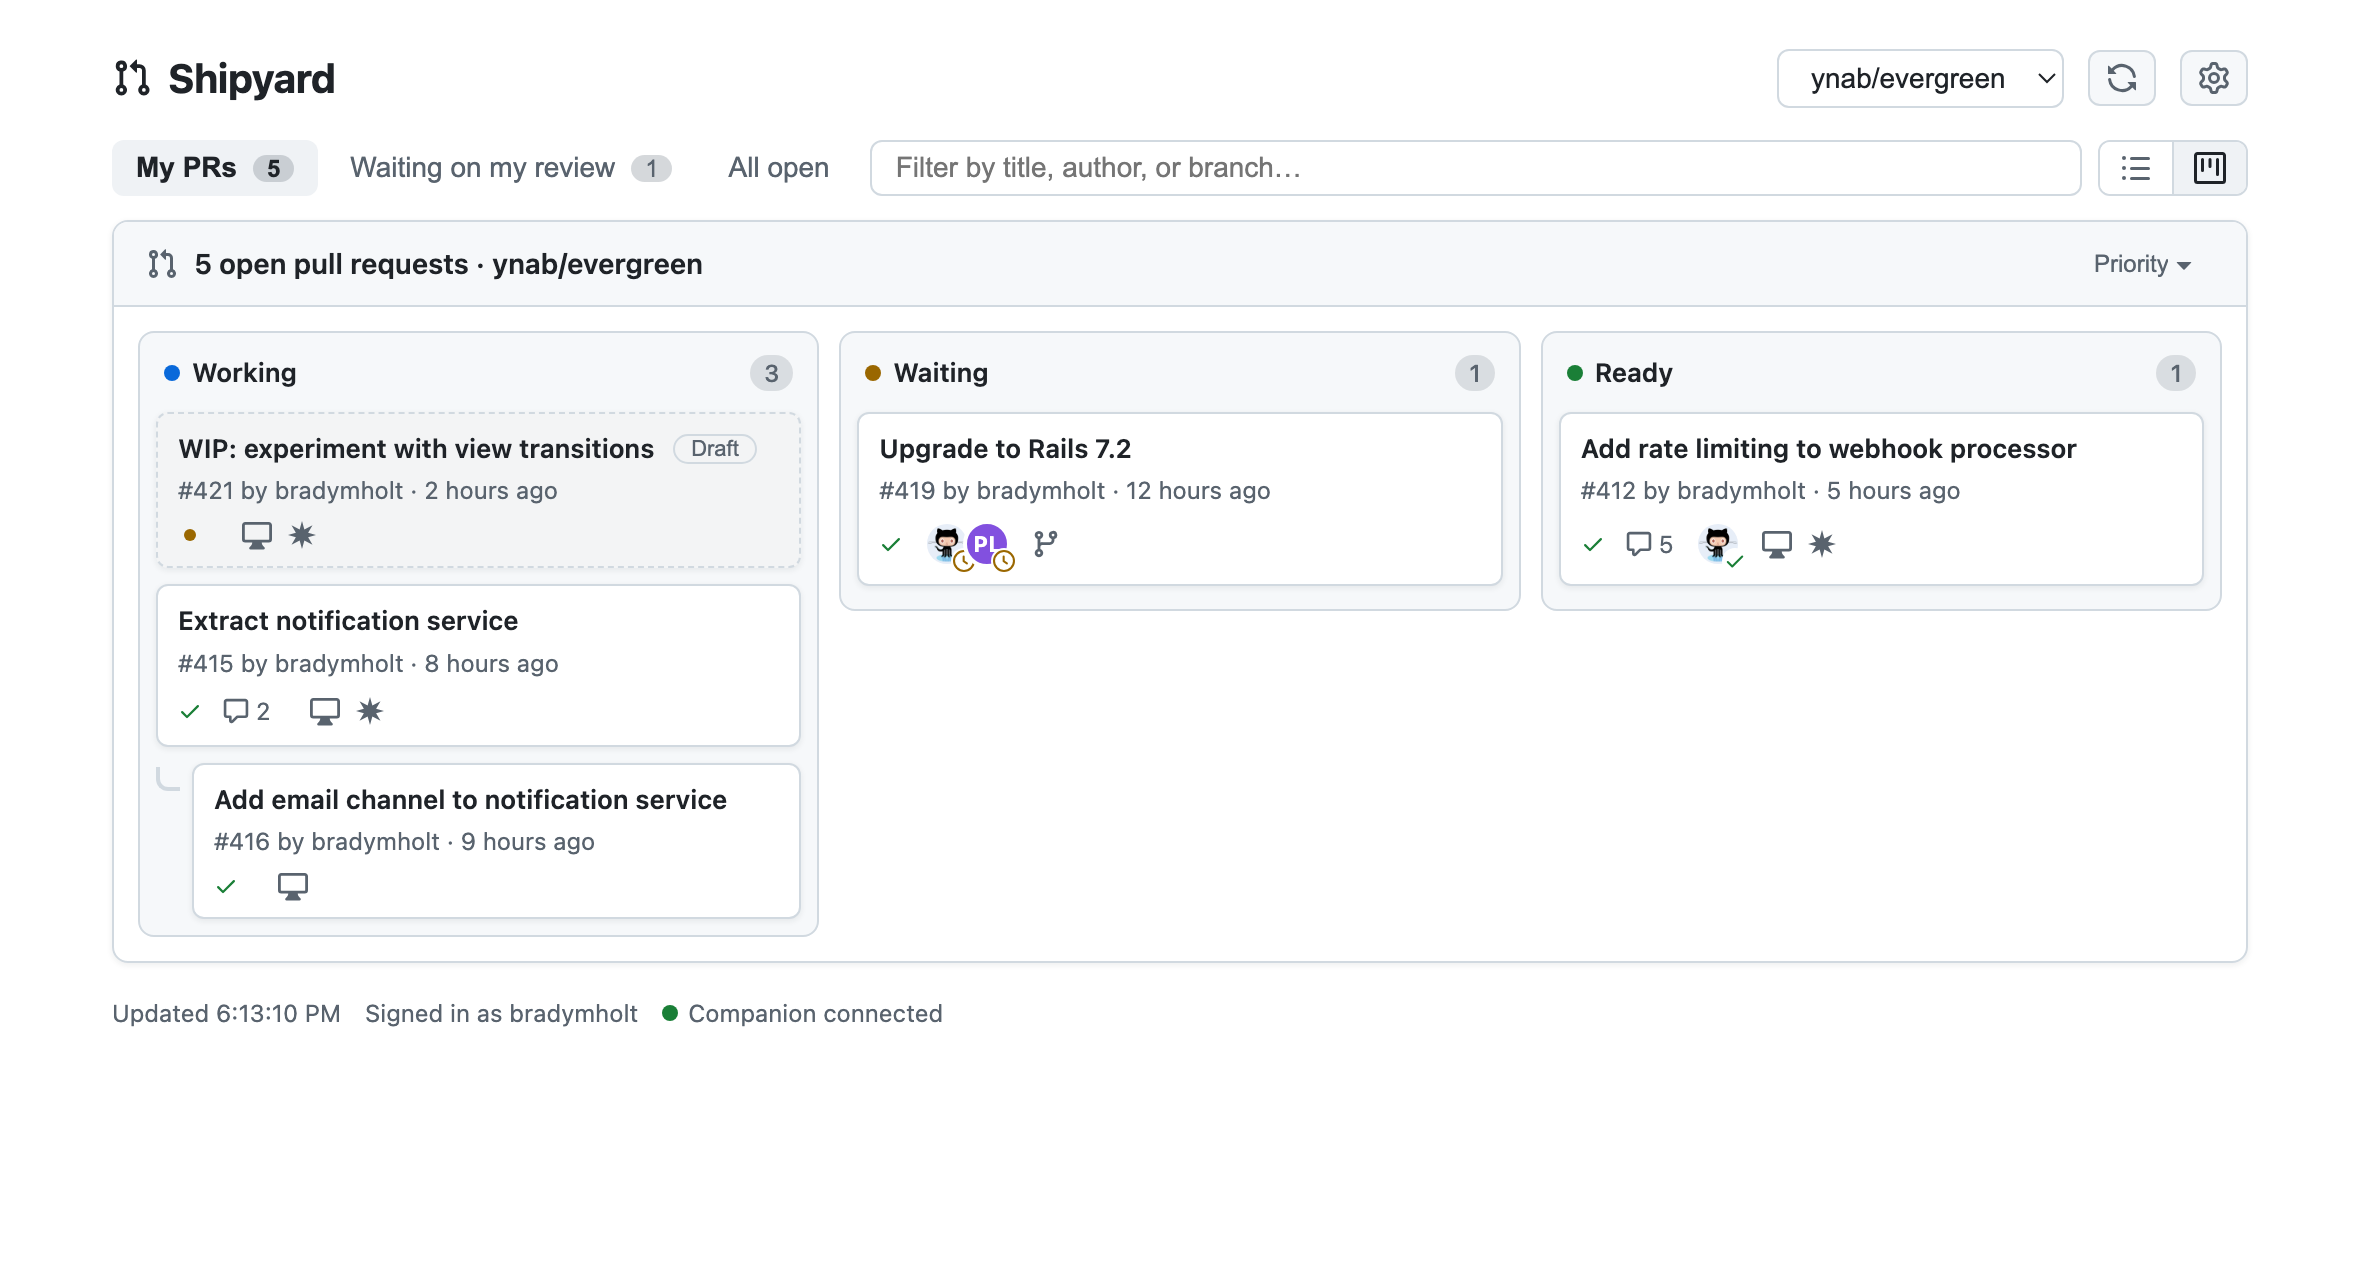
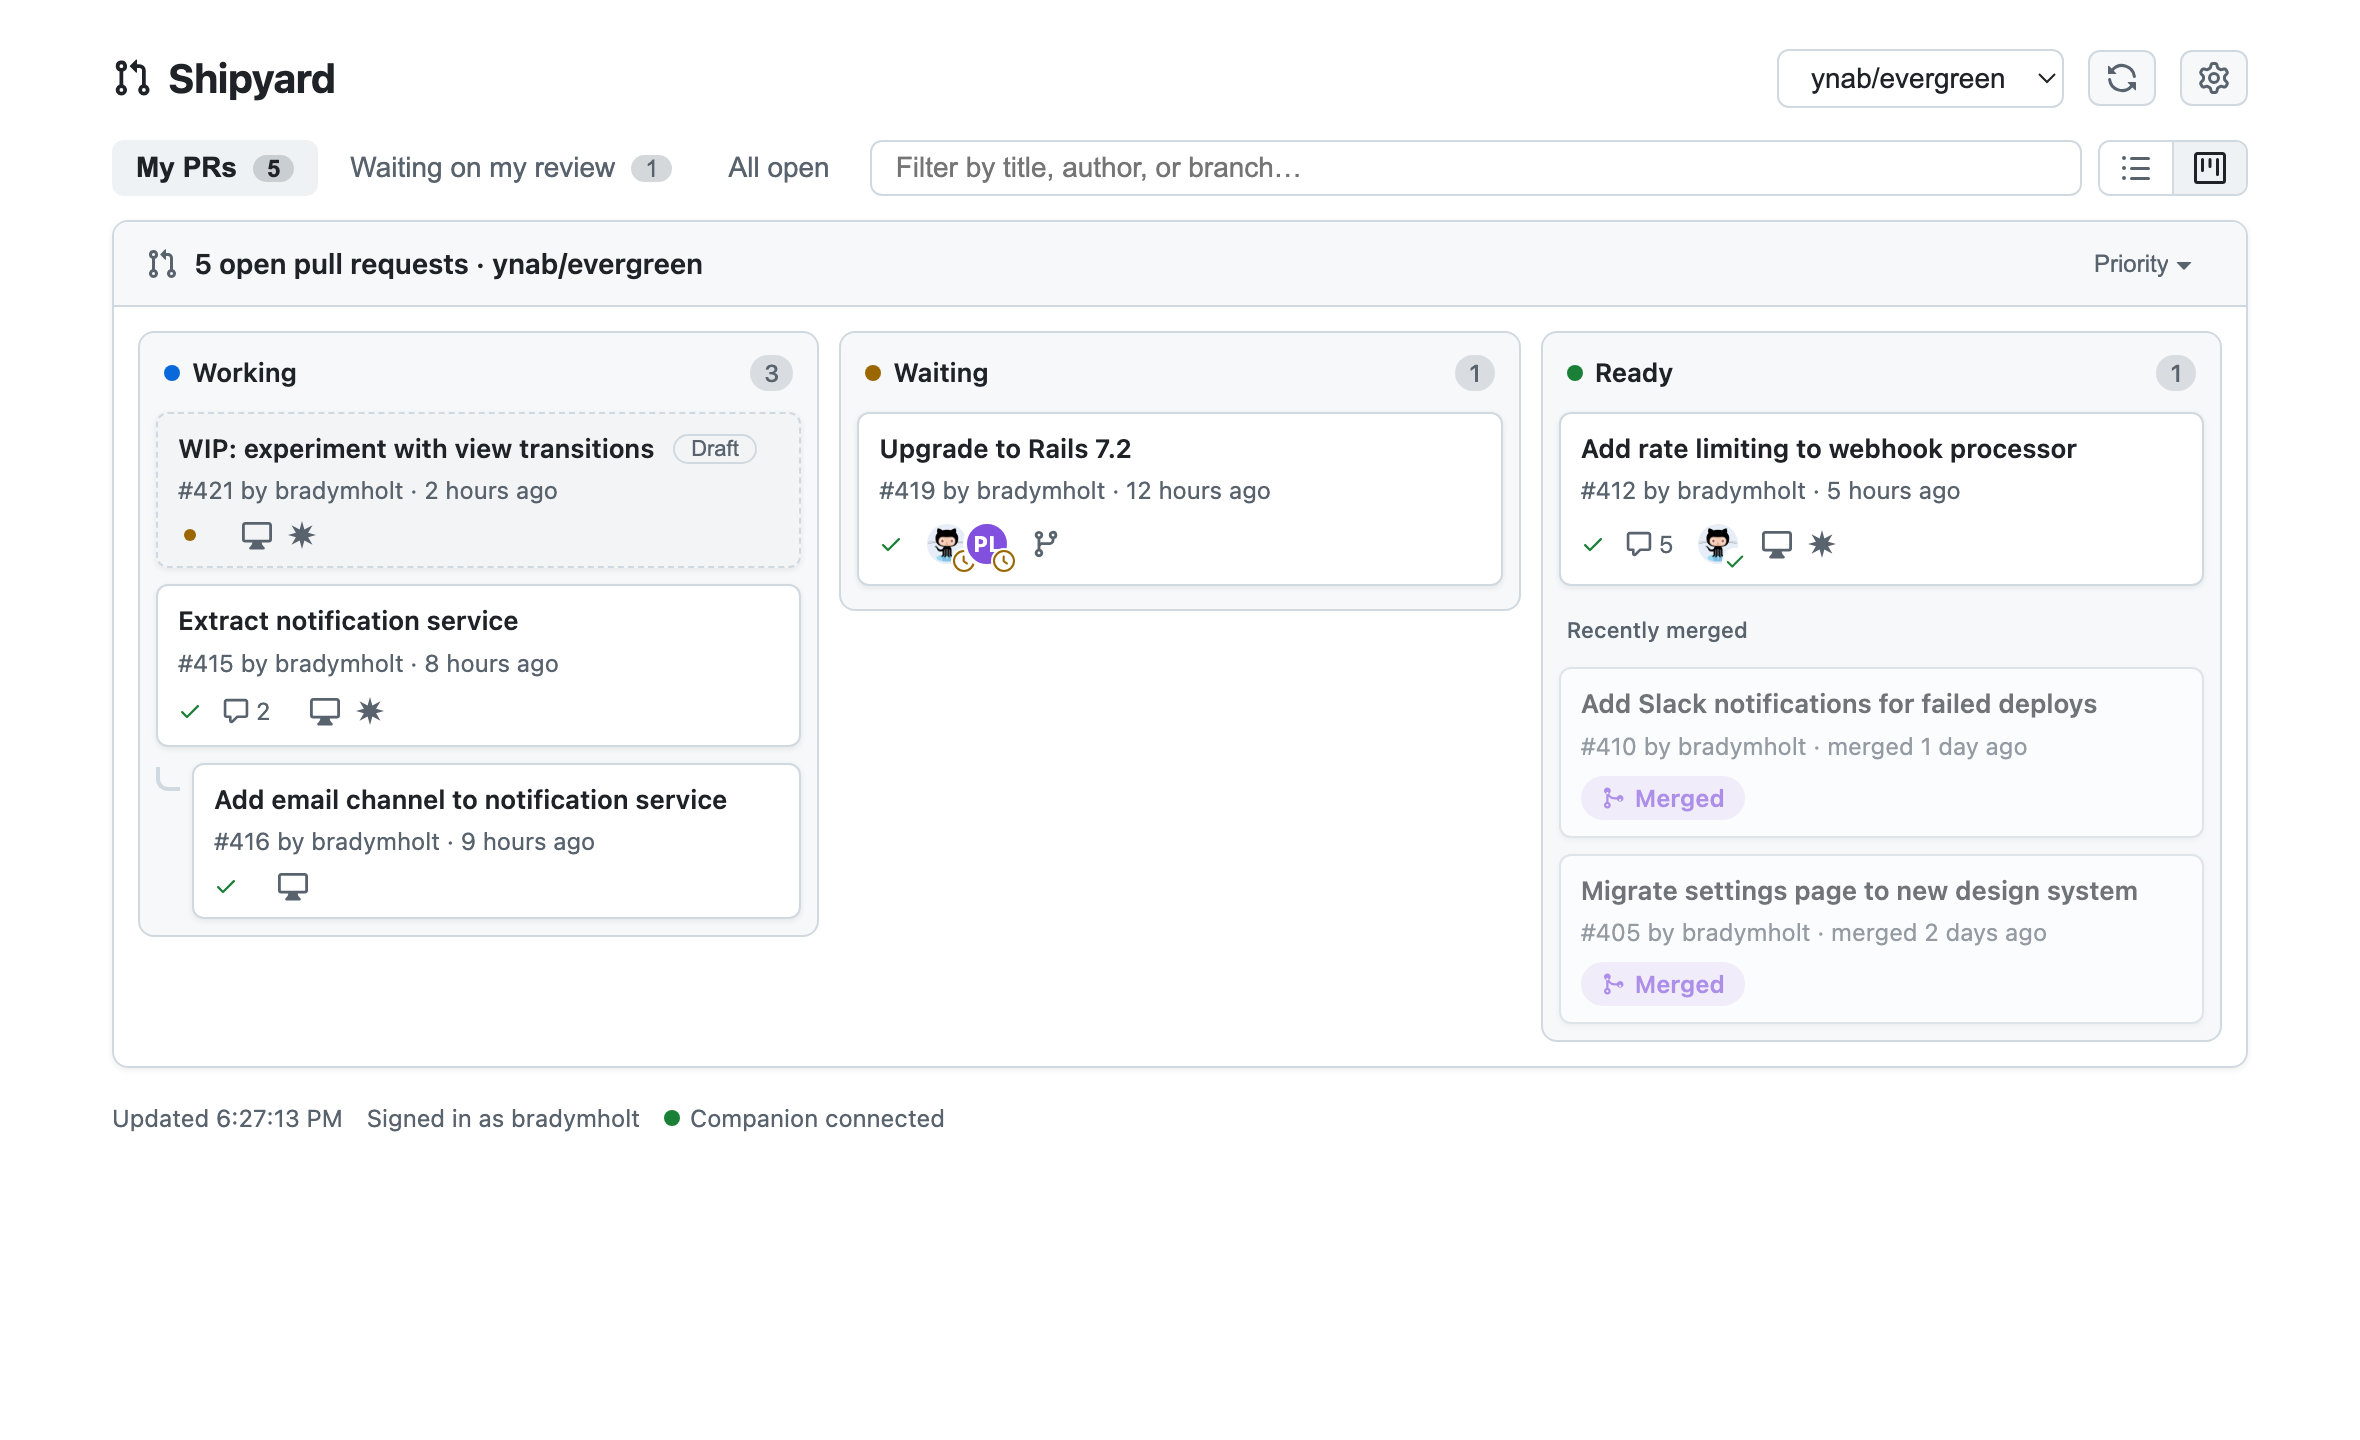
Show last 2 merged PRs (My PRs list bottom + Ready lane)
fetchTargeted now also pulls my 2 most recent merged PRs (is:merged
author:@user). On the My PRs tab they render dimmed with a purple Merged
badge under a 'Recently merged' divider - at the bottom of the list and
beneath the Ready swim lane - so they read as done, not actionable.

diff --git a/index.html b/index.html
@@ -158,6 +158,11 @@
   .pr-row:last-child { border-bottom: none; }
   .pr-row:hover { background: var(--row-hover); }
   .pr-row.context { opacity: .55; }
+  .pr-row.merged, .card.merged { opacity: .62; }
+  .pr-icon.merged svg, .review-badge.merged svg { fill: var(--purple); }
+  .review-badge.merged { color: var(--purple); background: color-mix(in srgb, var(--purple) 14%, transparent); }
+  .merged-divider { font-size: 11px; font-weight: 500; color: var(--fg-muted); padding: 8px 16px 2px; border-top: 1px solid var(--border); }
+  .lane .merged-divider { padding: 6px 4px 2px; border-top: none; }
   .stack-elbow {
     flex: none;
     width: 12px; height: 12px;
@@ -429,6 +434,7 @@
 
   const state = {
     prs: [],              // targeted set: my PRs ∪ PRs awaiting my review (fetched on load)
+    merged: [],           // my last couple of merged PRs, shown as context on the My PRs tab
     targetedLoaded: false,
     allPrs: null,         // full open set, fetched lazily the first time "All open" is viewed
     total: 0,             // total open count, for the All-open truncation note
@@ -447,6 +453,7 @@
 
   function resetData() {
     state.prs = [];
+    state.merged = [];
     state.targetedLoaded = false;
     state.allPrs = null;
   }
@@ -466,6 +473,7 @@
     check: '<svg viewBox="0 0 16 16" width="12" height="12"><path d="M13.78 4.22a.75.75 0 0 1 0 1.06l-7.25 7.25a.75.75 0 0 1-1.06 0L2.22 9.28a.751.751 0 0 1 .018-1.042.751.751 0 0 1 1.042-.018L6 10.94l6.72-6.72a.75.75 0 0 1 1.06 0Z"/></svg>',
     x: '<svg viewBox="0 0 16 16" width="12" height="12"><path d="M3.72 3.72a.75.75 0 0 1 1.06 0L8 6.94l3.22-3.22a.749.749 0 0 1 1.275.326.749.749 0 0 1-.215.734L9.06 8l3.22 3.22a.749.749 0 0 1-.326 1.275.749.749 0 0 1-.734-.215L8 9.06l-3.22 3.22a.751.751 0 0 1-1.042-.018.751.751 0 0 1-.018-1.042L6.94 8 3.72 4.78a.75.75 0 0 1 0-1.06Z"/></svg>',
     dot: '<svg viewBox="0 0 16 16" width="12" height="12"><path d="M8 4a4 4 0 1 1 0 8 4 4 0 0 1 0-8Z"/></svg>',
+    merged: '<svg viewBox="0 0 16 16" width="12" height="12"><path d="M5.45 5.154A4.25 4.25 0 0 0 9.25 7.5h1.378a2.251 2.251 0 1 1 0 1.5H9.25A5.734 5.734 0 0 1 5 7.123v3.505a2.25 2.25 0 1 1-1.5 0V5.372a2.25 2.25 0 1 1 1.95-.218ZM4.25 13.5a.75.75 0 1 0 0-1.5.75.75 0 0 0 0 1.5Zm0-8a.75.75 0 1 0 0-1.5.75.75 0 0 0 0 1.5Zm8.5 4.5a.75.75 0 1 0 0-1.5.75.75 0 0 0 0 1.5Z"/></svg>',
     clock: '<svg viewBox="0 0 16 16" width="12" height="12"><path d="M8 0a8 8 0 1 1 0 16A8 8 0 0 1 8 0ZM1.5 8a6.5 6.5 0 1 0 13 0 6.5 6.5 0 0 0-13 0Zm7-3.25v2.992l2.028 1.352a.75.75 0 0 1-.832 1.248l-2.36-1.573A.75.75 0 0 1 7 8.25v-3.5a.75.75 0 0 1 1.5 0Z"/></svg>',
     comment: '<svg viewBox="0 0 16 16" width="14" height="14"><path d="M1 2.75C1 1.784 1.784 1 2.75 1h10.5c.966 0 1.75.784 1.75 1.75v7.5A1.75 1.75 0 0 1 13.25 12H9.06l-2.573 2.573A1.458 1.458 0 0 1 4 13.543V12H2.75A1.75 1.75 0 0 1 1 10.25Zm1.75-.25a.25.25 0 0 0-.25.25v7.5c0 .138.112.25.25.25h2a.75.75 0 0 1 .75.75v2.19l2.72-2.72a.749.749 0 0 1 .53-.22h4.5a.25.25 0 0 0 .25-.25v-7.5a.25.25 0 0 0-.25-.25Z"/></svg>',
     changes: '<svg viewBox="0 0 16 16" width="12" height="12"><path d="M4.72 3.22a.75.75 0 0 1 1.06 1.06L2.06 8l3.72 3.72a.75.75 0 1 1-1.06 1.06L.47 8.53a.75.75 0 0 1 0-1.06Zm6.56 0a.75.75 0 1 0-1.06 1.06L13.94 8l-3.72 3.72a.75.75 0 1 0 1.06 1.06l4.25-4.25a.75.75 0 0 0 0-1.06Z"/></svg>',
@@ -497,7 +505,7 @@
 
   // ---------- GitHub API ----------
   const PR_FIELDS = `
-    id number title url isDraft createdAt updatedAt headRefName baseRefName
+    id number title url isDraft createdAt updatedAt mergedAt headRefName baseRefName
     autoMergeRequest { enabledAt }
     viewerCanEnableAutoMerge viewerCanDisableAutoMerge
     repository { nameWithOwner }
@@ -630,7 +638,7 @@
     return `${await ownerQualifier(target)}:${target}`;
   }
 
-  async function searchPRs(q) {
+  async function searchPRs(q, max = MAX_PRS) {
     const prs = [];
     let after = null, viewer = null, total = 0;
     do {
@@ -639,16 +647,18 @@
       total = data.search.issueCount;
       prs.push(...data.search.nodes.filter((n) => n && n.number));
       after = data.search.pageInfo.hasNextPage ? data.search.pageInfo.endCursor : null;
-    } while (after && prs.length < MAX_PRS);
+    } while (after && prs.length < max);
     return { viewer, prs, total };
   }
 
-  // The cheap default: only my PRs and PRs awaiting my review, not every open PR.
+  // The cheap default: only my PRs and PRs awaiting my review, plus my last
+  // couple of merged PRs (shown as recently-merged context) - not every open PR.
   async function fetchTargeted() {
-    const scope = `is:pr is:open archived:false ${await scopePrefix(requireTarget())}`;
-    const [mine, review] = await Promise.all([
-      searchPRs(`${scope} author:@me`),
-      searchPRs(`${scope} review-requested:@me`),
+    const base = `is:pr archived:false ${await scopePrefix(requireTarget())}`;
+    const [mine, review, merged] = await Promise.all([
+      searchPRs(`${base} is:open author:@me`),
+      searchPRs(`${base} is:open review-requested:@me`),
+      searchPRs(`${base} is:merged author:@me`, 2),
     ]);
     const seen = new Set();
     const prs = [];
@@ -658,7 +668,7 @@
       seen.add(key);
       prs.push(pr);
     }
-    return { viewer: mine.viewer || review.viewer, prs };
+    return { viewer: mine.viewer || review.viewer || merged.viewer, prs, merged: merged.prs.slice(0, 2) };
   }
 
   // The full open set, fetched only when "All open" is viewed.
@@ -813,6 +823,33 @@
       ? `<a class="wt-link" href="claude://resume?session=${esc(wt.sessionId)}" title="Resume Claude session">${ICONS.claude}</a>`
       : "";
     return `<span class="wt-links">${vscode}${claude}</span>`;
+  }
+
+  function mergedRepoPrefix(pr) {
+    const repoName = pr.repository?.nameWithOwner;
+    return repoName && repoName !== getCurrentRepo()
+      ? `<a href="https://github.com/${esc(repoName)}" target="_blank" rel="noopener"><strong>${esc(repoName)}</strong></a> ` : "";
+  }
+
+  function mergedRow(pr) {
+    return `
+      <div class="pr-row merged">
+        <span class="pr-icon merged">${ICONS.merged}</span>
+        <div class="pr-main">
+          <div class="pr-title"><a href="${esc(pr.url)}" target="_blank" rel="noopener">${esc(pr.title)}</a></div>
+          <div class="pr-meta">${mergedRepoPrefix(pr)}#${pr.number} by <strong>${esc(pr.author?.login || "ghost")}</strong> · merged ${timeAgo(pr.mergedAt)}</div>
+        </div>
+        <div class="pr-side"><span class="review-badge merged">${ICONS.merged} Merged</span></div>
+      </div>`;
+  }
+
+  function mergedCard(pr) {
+    return `
+      <div class="card merged">
+        <div class="card-title"><a href="${esc(pr.url)}" target="_blank" rel="noopener">${esc(pr.title)}</a></div>
+        <div class="card-meta">${mergedRepoPrefix(pr)}#${pr.number} by ${esc(pr.author?.login || "ghost")} · merged ${timeAgo(pr.mergedAt)}</div>
+        <div class="card-icons"><span class="review-badge merged">${ICONS.merged} Merged</span></div>
+      </div>`;
   }
 
   function prRow(pr, depth = 0, isContext = false, parent = null) {
@@ -1056,13 +1093,16 @@
         };
         let laneHtml = roots.map((r) => renderCardTree(r, 0)).join("");
         for (const pr of inLane) if (!seen.has(pr.number)) laneHtml += renderCardTree(pr, 0);
+        if (i === 2 && state.merged.length) {  // recently merged sit under the Ready lane
+          laneHtml += '<div class="merged-divider">Recently merged</div>' + state.merged.map(mergedCard).join("");
+        }
         return `
         <div class="lane">
           <div class="lane-header"><span class="lane-dot ${color}"></span>${name}<span class="lane-count">${inLane.length}</span></div>
           ${laneHtml || '<div class="lane-empty">None</div>'}
         </div>`;
       }).join("") + "</div>";
-      if (!count) html = "";
+      if (!count && !state.merged.length) html = "";
     } else {
       const { roots, children } = buildStacks(dataset);
       roots.sort(sortComparator());
@@ -1077,6 +1117,9 @@
         const r = renderNode(pr, 0, children, null, seen);
         html += r.html;
         count += r.count;
+      }
+      if (state.filter === "mine" && state.merged.length) {  // recently merged at the bottom of My PRs
+        html += '<div class="merged-divider">Recently merged</div>' + state.merged.map(mergedRow).join("");
       }
     }
     const target = getCurrentRepo();
@@ -1114,9 +1157,10 @@
     listBody.innerHTML = '<div class="loading"><div class="spinner"></div>Loading pull requests…</div>';
     try {
       if (needTargeted) {
-        const { viewer, prs } = await fetchTargeted();
+        const { viewer, prs, merged } = await fetchTargeted();
         state.viewer = viewer;
         state.prs = prs;
+        state.merged = merged;
         state.targetedLoaded = true;
       }
       if (needAll) {

diff --git a/README.md b/README.md
@@ -14,7 +14,7 @@ Priority-sorted list with review status, reviewers, CI checks, stacked PRs neste
 
 ### Board view
 
-Swim lanes by PR state - Working (drafts shown dashed), Waiting (on a reviewer), and Ready (approved):
+Swim lanes by PR state - Working (drafts shown dashed), Waiting (on a reviewer), and Ready (approved), with your last couple of merged PRs shown dimmed under Ready:
 
 ![Board view](docs/board-view.png)
 
@@ -26,6 +26,7 @@ Swim lanes by PR state - Working (drafts shown dashed), Waiting (on a reviewer),
 - **Board view**: swim lanes for Working / Waiting / Ready on the My PRs tab, with drafts styled distinctly in Working (click a card's Draft pill to mark it ready for review)
 - **Auto-merge**: Waiting and Ready cards show auto-merge status with a one-click toggle
 - **Stacked PRs**: PRs based on another open PR's branch are nested under their parent in both views
+- **Recently merged**: on the My PRs tab, your last 2 merged PRs appear dimmed with a purple "Merged" badge - at the bottom of the list and under the Ready lane - for quick reference
 - **Priority sort**: one of the list sort options - ready-to-merge first, then actionable-by-author, then needs-reviewer, awaiting-review last
 - **Filters**: My PRs / Waiting on my review / All open tabs, plus text filter across title, author, branch, and repo. The default load fetches only your PRs and ones awaiting your review; "All open" fetches the full set on demand the first time you open it
 - **Local worktree links** (optional): when run via the local companion, PRs whose branch you have checked out locally get "Open in VS Code" and "Resume in Claude" links